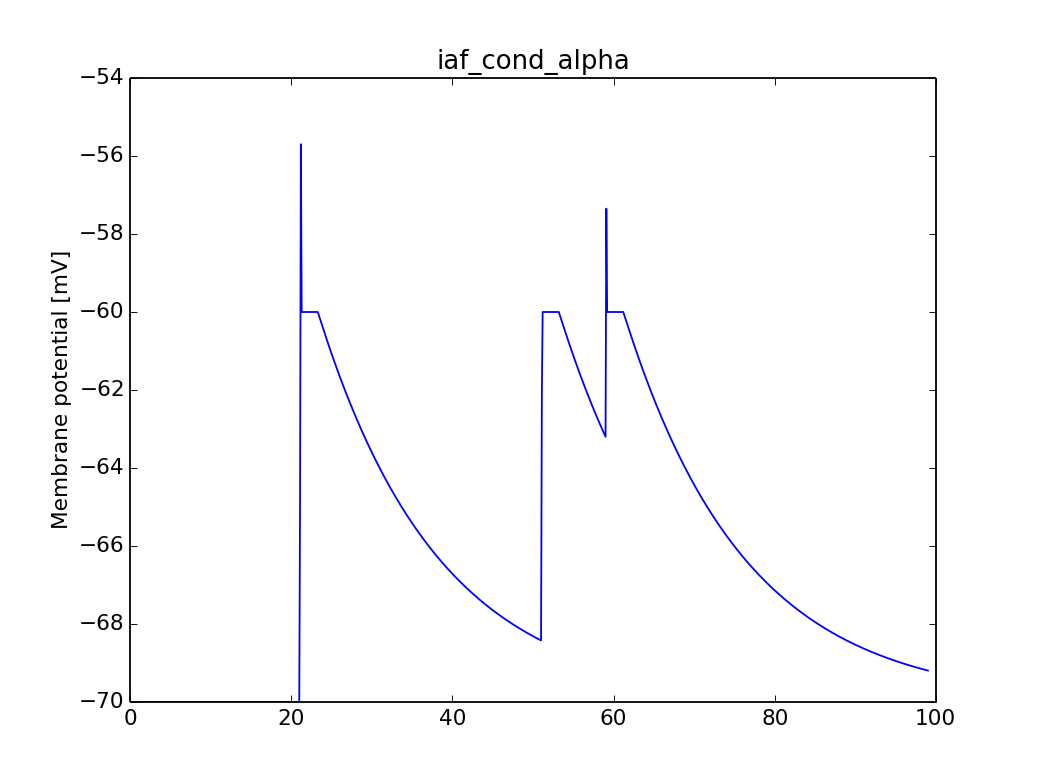
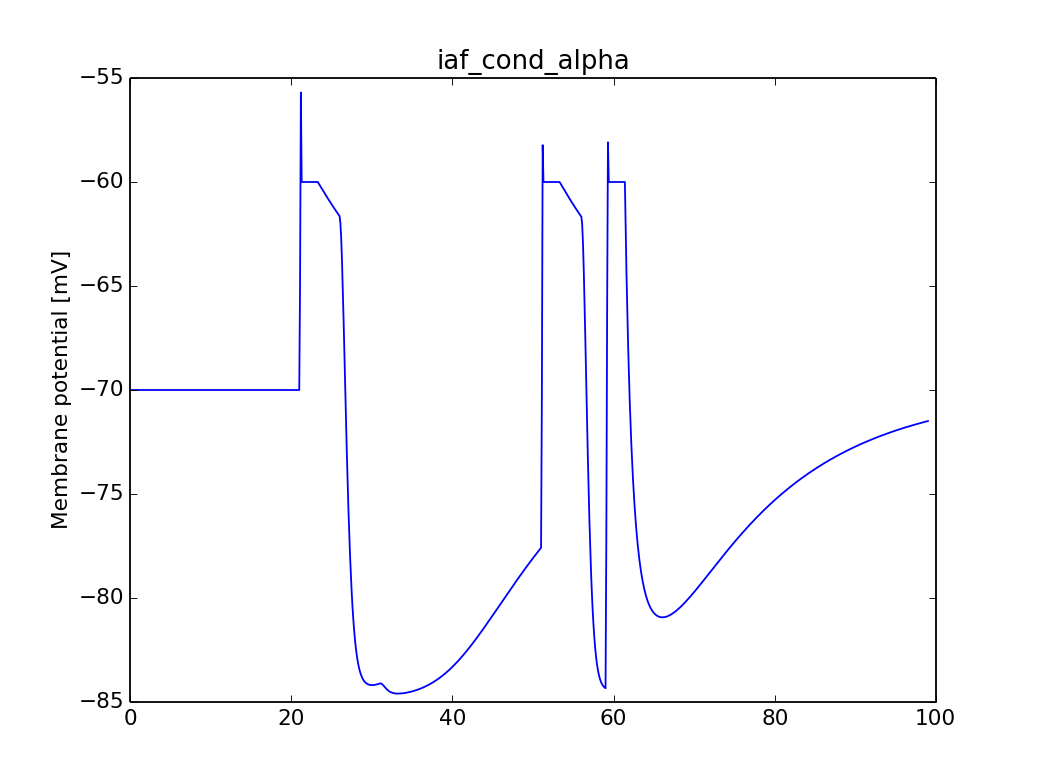
update scripts, description, graphics

diff --git a/CalculationNM/scripts/neuronmodels.py b/CalculationNM/scripts/neuronmodels.py
@@ -5,14 +5,14 @@ import numpy
 
 nest.ResetKernel()
 
[1 lines of base64/hex data omitted]
+path = "/Users/komarovvitaliy/GitHub/NEUCOGAR/CalculationNM/Results/"
 dpi_n = 130
 
 sysParams = ['synaptic_elements',
              'consistent_integration',
              'element_type',
              'local',
-             #'recordables',
+             # 'recordables',
              'thread_local_id',
              'thread',
              'frozen',
@@ -31,66 +31,50 @@ sysParams = ['synaptic_elements',
 
 allModels = ['aeif_cond_alpha',
              'aeif_cond_alpha_RK5',
-             #'aeif_cond_alpha_multisynapse', does not accept SpikeEvent
+             # 'aeif_cond_alpha_multisynapse', does not accept SpikeEvent
              'aeif_cond_exp',
              'amat2_psc_exp',
-             #'ginzburg_neuron',
+             # 'ginzburg_neuron',
              'hh_cond_exp_traub',
              'hh_psc_alpha',
              'hh_psc_alpha_gap',
-             #'ht_neuron',
+             # 'ht_neuron',
              'iaf_chs_2007',
              'iaf_chxk_2008',
              'iaf_cond_alpha',
-             #'iaf_cond_alpha_mc',
+             # 'iaf_cond_alpha_mc',
              'iaf_cond_exp',
              'iaf_cond_exp_sfa_rr',
              'iaf_neuron',
              'iaf_psc_alpha',
              'iaf_psc_alpha_canon',
-             #'iaf_psc_alpha_multisynapse', does not accept SpikeEvent
+             # 'iaf_psc_alpha_multisynapse', does not accept SpikeEvent
              'iaf_psc_alpha_presc',
              'iaf_psc_delta',
              'iaf_psc_delta_canon',
              'iaf_psc_exp',
-             #'iaf_psc_exp_multisynapse', does not accept SpikeEvent
+             # 'iaf_psc_exp_multisynapse', does not accept SpikeEvent
              'iaf_psc_exp_ps',
              'iaf_tum_2000',
              'izhikevich',
              'mat2_psc_exp',
-             #'mcculloch_pitts_neuron',
-             #'parrot_neuron',              does not have recordables
-             #'parrot_neuron_ps',           does not have recordables
-             'pp_pop_psc_delta',
+             # 'mcculloch_pitts_neuron',
+             # 'parrot_neuron',              does not have recordables
+             # 'parrot_neuron_ps',           does not have recordables
+             # 'pp_pop_psc_delta',           procces hangs on the inh neurons
              'pp_psc_delta']
-
-
-'''
-neuron_model = nest.Create(model)
-
-nest.Connect(multimeter, neuron_model)
-
-nest.Simulate(1000)
-
-
-for model in allModels:
-    listok = nest.GetDefaults(model)
-    print "\n", model
-    for item in listok:
-        if not item in sysParams:
-            print " '{0}': {1}".format(item, listok[item])
-    del listok
-'''
 
 for model in allModels:
     neuron = nest.Create(model)
     print "\n", model
-    multimeter = nest.Create('multimeter', params = {'withtime': True, 'interval': 0.1, 'record_from':['V_m']})
-    generator = nest.Create("spike_generator", params = {"spike_times": numpy.array([20.0, 50.0, 58.0]),
-                                                     "spike_weights": numpy.array([400., 500., 500.])})
-
+    multimeter = nest.Create('multimeter', params={'withtime': True, 'interval': 0.1, 'record_from': ['V_m']})
+    generator_ex = nest.Create("spike_generator", params={"spike_times": numpy.array([20.0, 50.0, 58.0]),
+                                                          "spike_weights": numpy.array([400., 500., 500.])})
+    generator_in = nest.Create("spike_generator", params={"spike_times": numpy.array([25.0, 30.0, 55.0]),
+                                                          "spike_weights": numpy.array([-400., -500., -500.])})
     nest.Connect(multimeter, neuron)
-    nest.Connect(generator, neuron)
+    nest.Connect(generator_ex, neuron)
+    nest.Connect(generator_in, neuron)
 
     nest.Simulate(100.)
 
@@ -106,12 +90,11 @@ for model in allModels:
     pylab.savefig(path + model + ".png", dpi=dpi_n, format='png')
     pylab.close()
 
-    #nest.voltage_trace.from_device(multimeter)
-    #nest.voltage_trace.show()
+    # nest.voltage_trace.from_device(multimeter)
+    # nest.voltage_trace.show()
     nest.ResetKernel()
 
-
-#Test block
+# Test block
 '''
 neuron = nest.Create('iaf_cond_alpha')
 multimeter = nest.Create('multimeter', params = {'withtime': True, 'interval': 0.1, 'record_from':['V_m', 'g_ex', 'g_in']})
@@ -146,11 +129,7 @@ pylab.draw()
 #nest.voltage_trace.from_device(multimeter)
 nest.voltage_trace.show()
 '''
-'''
-for model in allModels:
-    print "\n", model
-    print nest.GetDefaults(model)
-'''
+
 '''
 neuron = nest.Create('aeif_cond_alpha')
 multimeter = nest.Create('multimeter', params = {'withtime': True, 'interval': 0.1, 'record_from':['V_m', 'g_ex', 'g_in', 'w']})

diff --git a/CalculationNM/Description.md b/CalculationNM/Description.md
@@ -423,6 +423,8 @@ tau_Ca | 10000.0 | ?? Not declared in NEST documentation
 
 #### 16. iaf_psc_alpha_presc
 
+Leaky iaf neuron, alpha PSC synapses, canonical implementation.
+
 Parameters| Value | Description
 ---------|---------|--------
 V_reset | -70.0 | Reset membrane potential after a spike in mV
@@ -603,6 +605,8 @@ tau_Ca | 10000.0 | ?? Not declared in NEST documentation
 ![23] (https://github.com/research-team/NEUCOGAR/blob/master/CalculationNM/Results/mat2_psc_exp.png)
 
 #### 24. pp_pop_psc_delta
+
+(nest stops working when using inhibitory neurons in this model)
 
 Population of point process neurons with leaky integration of delta-shaped PSCs.
 
